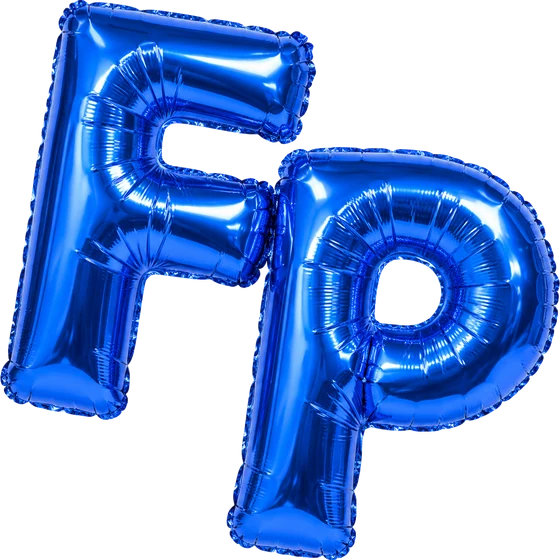
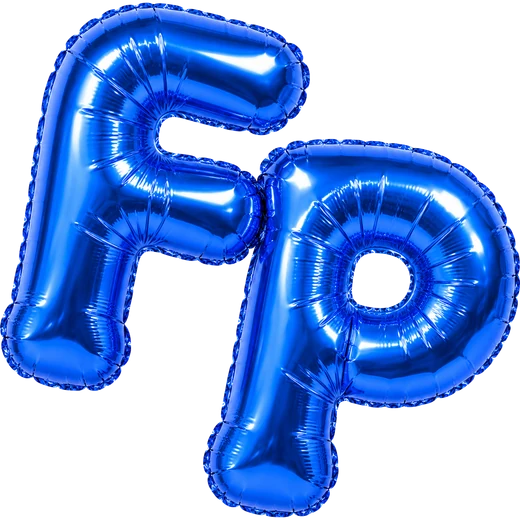
Rounder, smaller FP balloon that turns around its y axis
- New generated balloon with rounder, puffier F and P.
- A little smaller (about 124-164px wide, 94px on phones).
- It turns slowly around its vertical axis. The photo is stacked in depth
  like a pillow (the seam full size and darker in the middle, the faces
  slightly smaller), so it looks inflated side-on and shows its mirrored
  back when turned away. Still draggable; still under reduced motion.
- Favicons rebuilt from the new image.

diff --git a/app/components/balloon-logo.css b/app/components/balloon-logo.css
@@ -15,7 +15,8 @@
   left: max(18px, env(safe-area-inset-left, 0px));
   z-index: 60;
   display: block;
-  width: clamp(140px, 13vw, 200px);
+  --balloon-w: clamp(124px, 11vw, 164px);
+  width: var(--balloon-w);
   cursor: grab;
   opacity: 0;
   touch-action: none;
@@ -60,26 +61,49 @@
 .balloon-float {
   position: relative;
   display: block;
-  transform-origin: 30% 100%;
+  transform-origin: 50% 100%;
+  perspective: 700px;
+}
+
+/* Turns around the vertical axis; the layers sit through its thickness. */
+.balloon-spin {
+  /* Nine layers over about an eighth of the width: an inflated balloon. */
+  --depth: calc(var(--balloon-w) * 0.016);
+  position: relative;
+  display: block;
+  transform-style: preserve-3d;
+  animation: balloon-spin 11s linear infinite;
+}
+
+@keyframes balloon-spin {
+  to {
+    transform: rotateY(360deg);
+  }
 }
 
 .balloon-art {
-  position: relative;
-  z-index: 1;
+  position: absolute;
+  inset: 0;
   display: block;
   width: 100%;
   height: auto;
-  transform-origin: 50% 80%;
-  filter: drop-shadow(0 10px 14px rgb(10 30 110 / 0.22));
+  filter: brightness(var(--shade));
   pointer-events: none;
+  transform: translateZ(calc(var(--layer) * var(--depth))) scale(var(--layer-scale));
   -webkit-user-drag: none;
+}
+
+/* The middle layer (the seam) sets the box size and carries the soft shadow. */
+.balloon-art:nth-child(5) {
+  position: relative;
+  filter: drop-shadow(0 10px 14px rgb(10 30 110 / 0.22));
 }
 
 /* The string hangs from the bottom of the F. */
 .balloon-string {
   position: absolute;
-  top: 74%;
-  left: 17%;
+  top: 86%;
+  left: 47%;
   width: 10px;
   height: 34px;
   overflow: visible;
@@ -96,13 +120,13 @@
 }
 
 @media (hover: hover) and (pointer: fine) {
-  .balloon-logo:hover .balloon-art {
-    animation: balloon-boing 700ms cubic-bezier(0.34, 1.56, 0.64, 1);
+  .balloon-logo:hover .balloon-float {
+    scale: 1.04;
   }
 }
 
-.balloon-logo:active .balloon-art {
-  transform: scale(0.94, 0.9);
+.balloon-float {
+  transition: scale 300ms cubic-bezier(0.34, 1.56, 0.64, 1);
 }
 
 /* Uses the individual translate property, so it never fights the lean
@@ -129,33 +153,11 @@
   }
 }
 
-@keyframes balloon-boing {
-  0% {
-    transform: none;
-  }
-
-  30% {
-    transform: scale(1.12, 0.9);
-  }
-
-  55% {
-    transform: scale(0.94, 1.08);
-  }
-
-  80% {
-    transform: scale(1.03, 0.98);
-  }
-
-  100% {
-    transform: none;
-  }
-}
-
 @media (max-width: 620px) {
   .balloon-logo {
     top: max(10px, calc(env(safe-area-inset-top, 0px) + 4px));
     left: max(14px, env(safe-area-inset-left, 0px));
-    width: 108px;
+    --balloon-w: 94px;
   }
 }
 
@@ -163,7 +165,7 @@
 
   .balloon-logo.is-ready .balloon-float,
   .balloon-string,
-  .balloon-logo:hover .balloon-art {
+  .balloon-spin {
     animation: none;
   }
 }

diff --git a/app/components/BalloonLogo.tsx b/app/components/BalloonLogo.tsx
@@ -8,7 +8,7 @@ import {
   useTransform,
   useVelocity,
 } from "motion/react";
-import { useRef, type MouseEvent as ReactMouseEvent } from "react";
+import { useRef, type CSSProperties, type MouseEvent as ReactMouseEvent } from "react";
 
 import "./balloon-logo.css";
 
@@ -22,6 +22,26 @@ import "./balloon-logo.css";
 /** Degrees of lean per px/s of drag speed, and the most it will lean. */
 const LEAN = 0.018;
 const MAX_LEAN = 24;
+
+/**
+ * The balloon turns around its vertical axis. A photo has no depth, so it is
+ * stacked as copies spread through the balloon's thickness, shaped like a
+ * pillow: the middle copy is the full outline (the seam) and darker, the
+ * faces in front and behind are a little smaller. Turned sideways it still
+ * looks inflated, and from behind it shows its mirrored back like a real
+ * balloon.
+ */
+const LAYERS = [-4, -3, -2, -1, 0, 1, 2, 3, 4];
+const OUTER = 4;
+
+function layerStyle(layer: number) {
+  const out = Math.abs(layer) / OUTER;
+  return {
+    "--layer": layer,
+    "--layer-scale": 1 - out * out * 0.07,
+    "--shade": 0.7 + 0.3 * out ** 1.5,
+  } as CSSProperties;
+}
 
 export default function BalloonLogo({ ready }: { ready: boolean }) {
   const reduceMotion = useReducedMotion();
@@ -72,14 +92,20 @@ export default function BalloonLogo({ ready }: { ready: boolean }) {
           <svg className="balloon-string" viewBox="0 0 20 64" preserveAspectRatio="none">
             <path d="M10 0 C 4 14, 16 26, 10 38 S 5 54, 11 64" />
           </svg>
-          <img
-            className="balloon-art"
-            src="/hero-assets/fp-balloon.webp"
-            alt=""
-            width={560}
-            height={560}
-            draggable={false}
-          />
+          <span className="balloon-spin">
+            {LAYERS.map((depth) => (
+              <img
+                key={depth}
+                className="balloon-art"
+                src="/hero-assets/fp-balloon.webp"
+                alt=""
+                width={520}
+                height={520}
+                draggable={false}
+                style={layerStyle(depth)}
+              />
+            ))}
+          </span>
         </motion.span>
       </motion.a>
     </>
